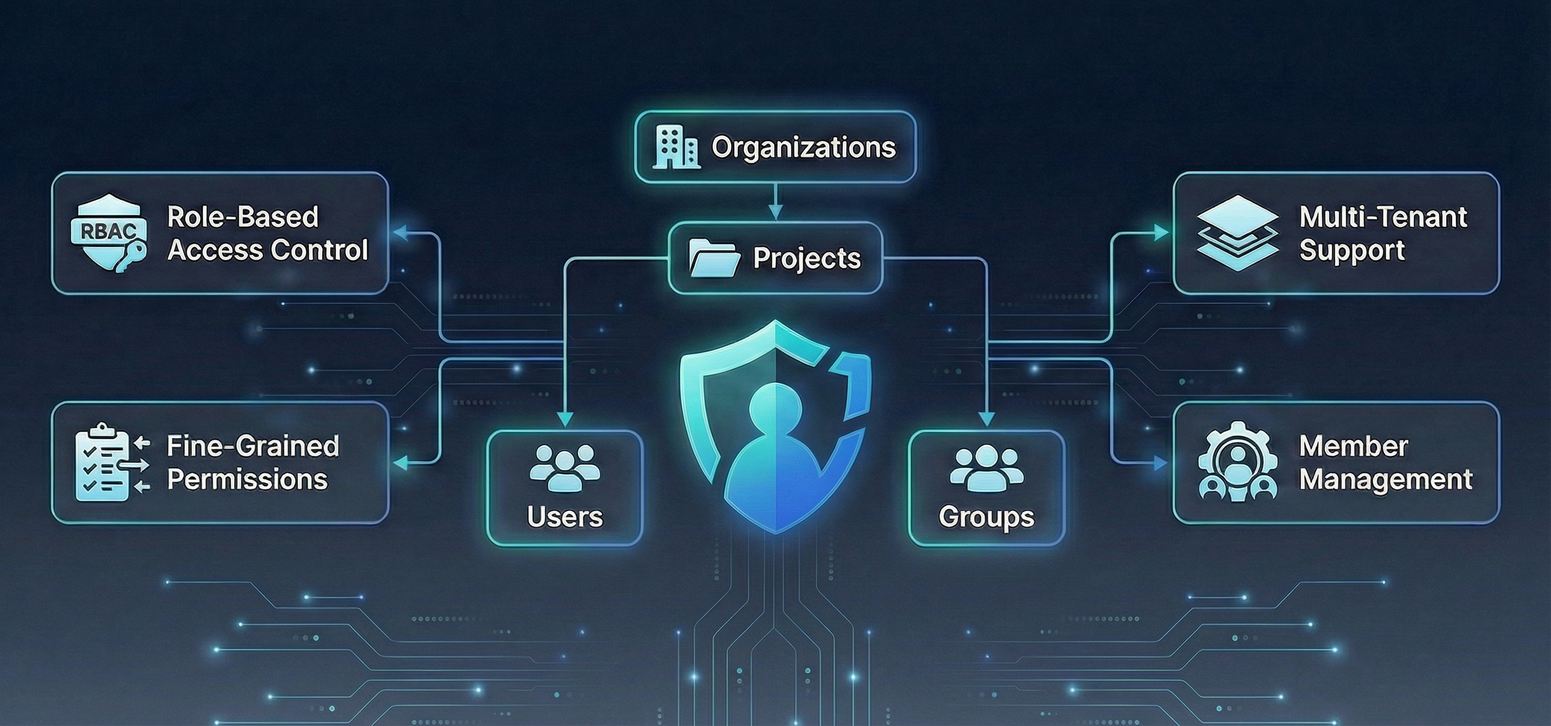
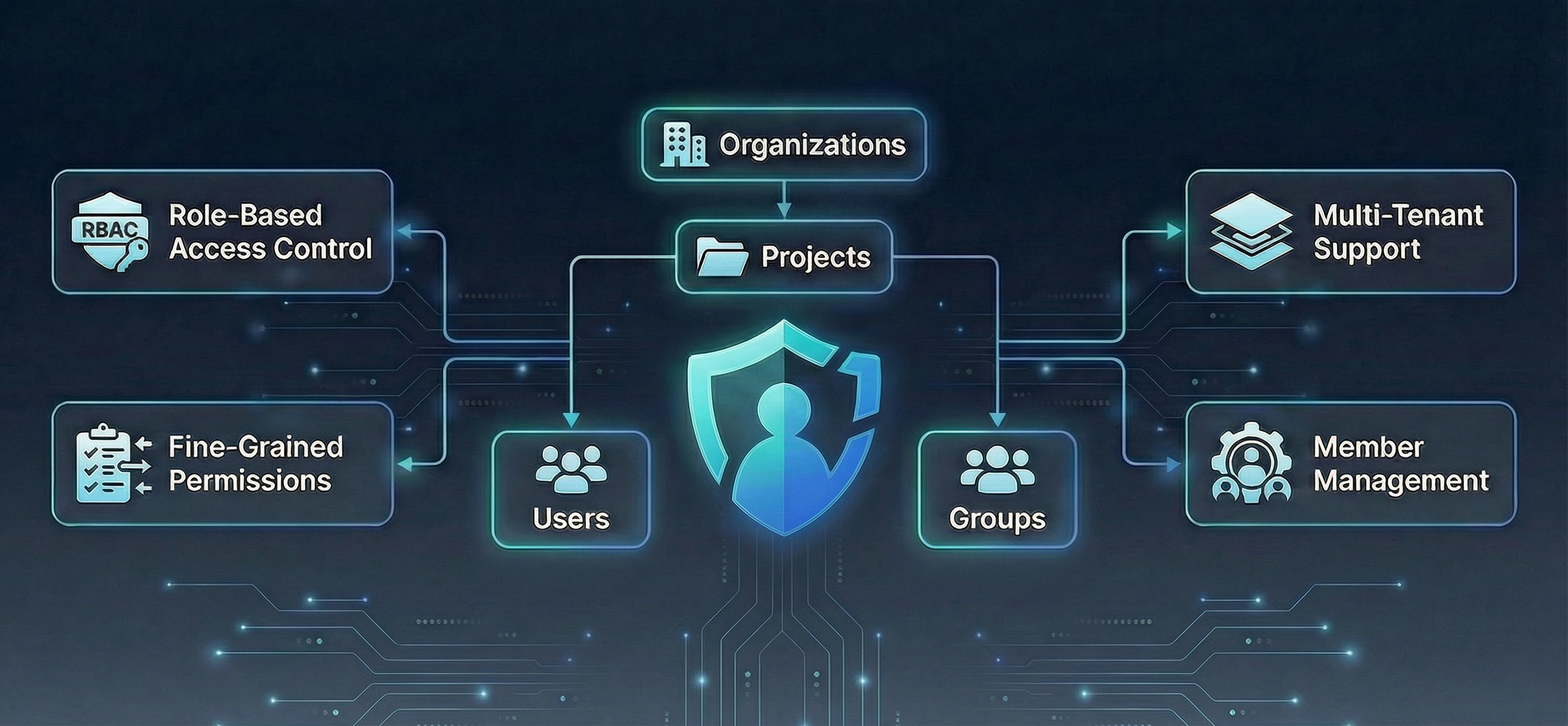
Fix IAM Security image - remove endpoints badge and add click-to-enlarge functionality

diff --git a/index.html b/index.html
@@ -269,7 +269,17 @@
                 <p>Secure your OpenStack infrastructure with organizations, projects, role-based access control, and fine-grained permissions</p>
             </div>
             <div class="visual-showcase visual-large">
-                <img src="05_iam_security.jpg?v=3" alt="Enterprise IAM & Security - Organizations, projects, users, groups, RBAC" class="visual-image">
+                <img src="05_iam_security.jpg?v=4" alt="Enterprise IAM & Security - Organizations, projects, users, groups, RBAC" class="visual-image clickable-image" data-enlargeable="true">
+                <div class="image-overlay">
+                    <div class="overlay-content">
+                        <svg class="zoom-icon" viewBox="0 0 24 24" fill="none" stroke="currentColor" stroke-width="2">
+                            <circle cx="11" cy="11" r="8"></circle>
+                            <path d="m21 21-4.35-4.35"></path>
+                            <path d="M11 8v6M8 11h6"></path>
+                        </svg>
+                        <span class="overlay-text">Click to Enlarge</span>
+                    </div>
+                </div>
             </div>
             <div class="features-inline">
                 <div class="feature-inline-item">
